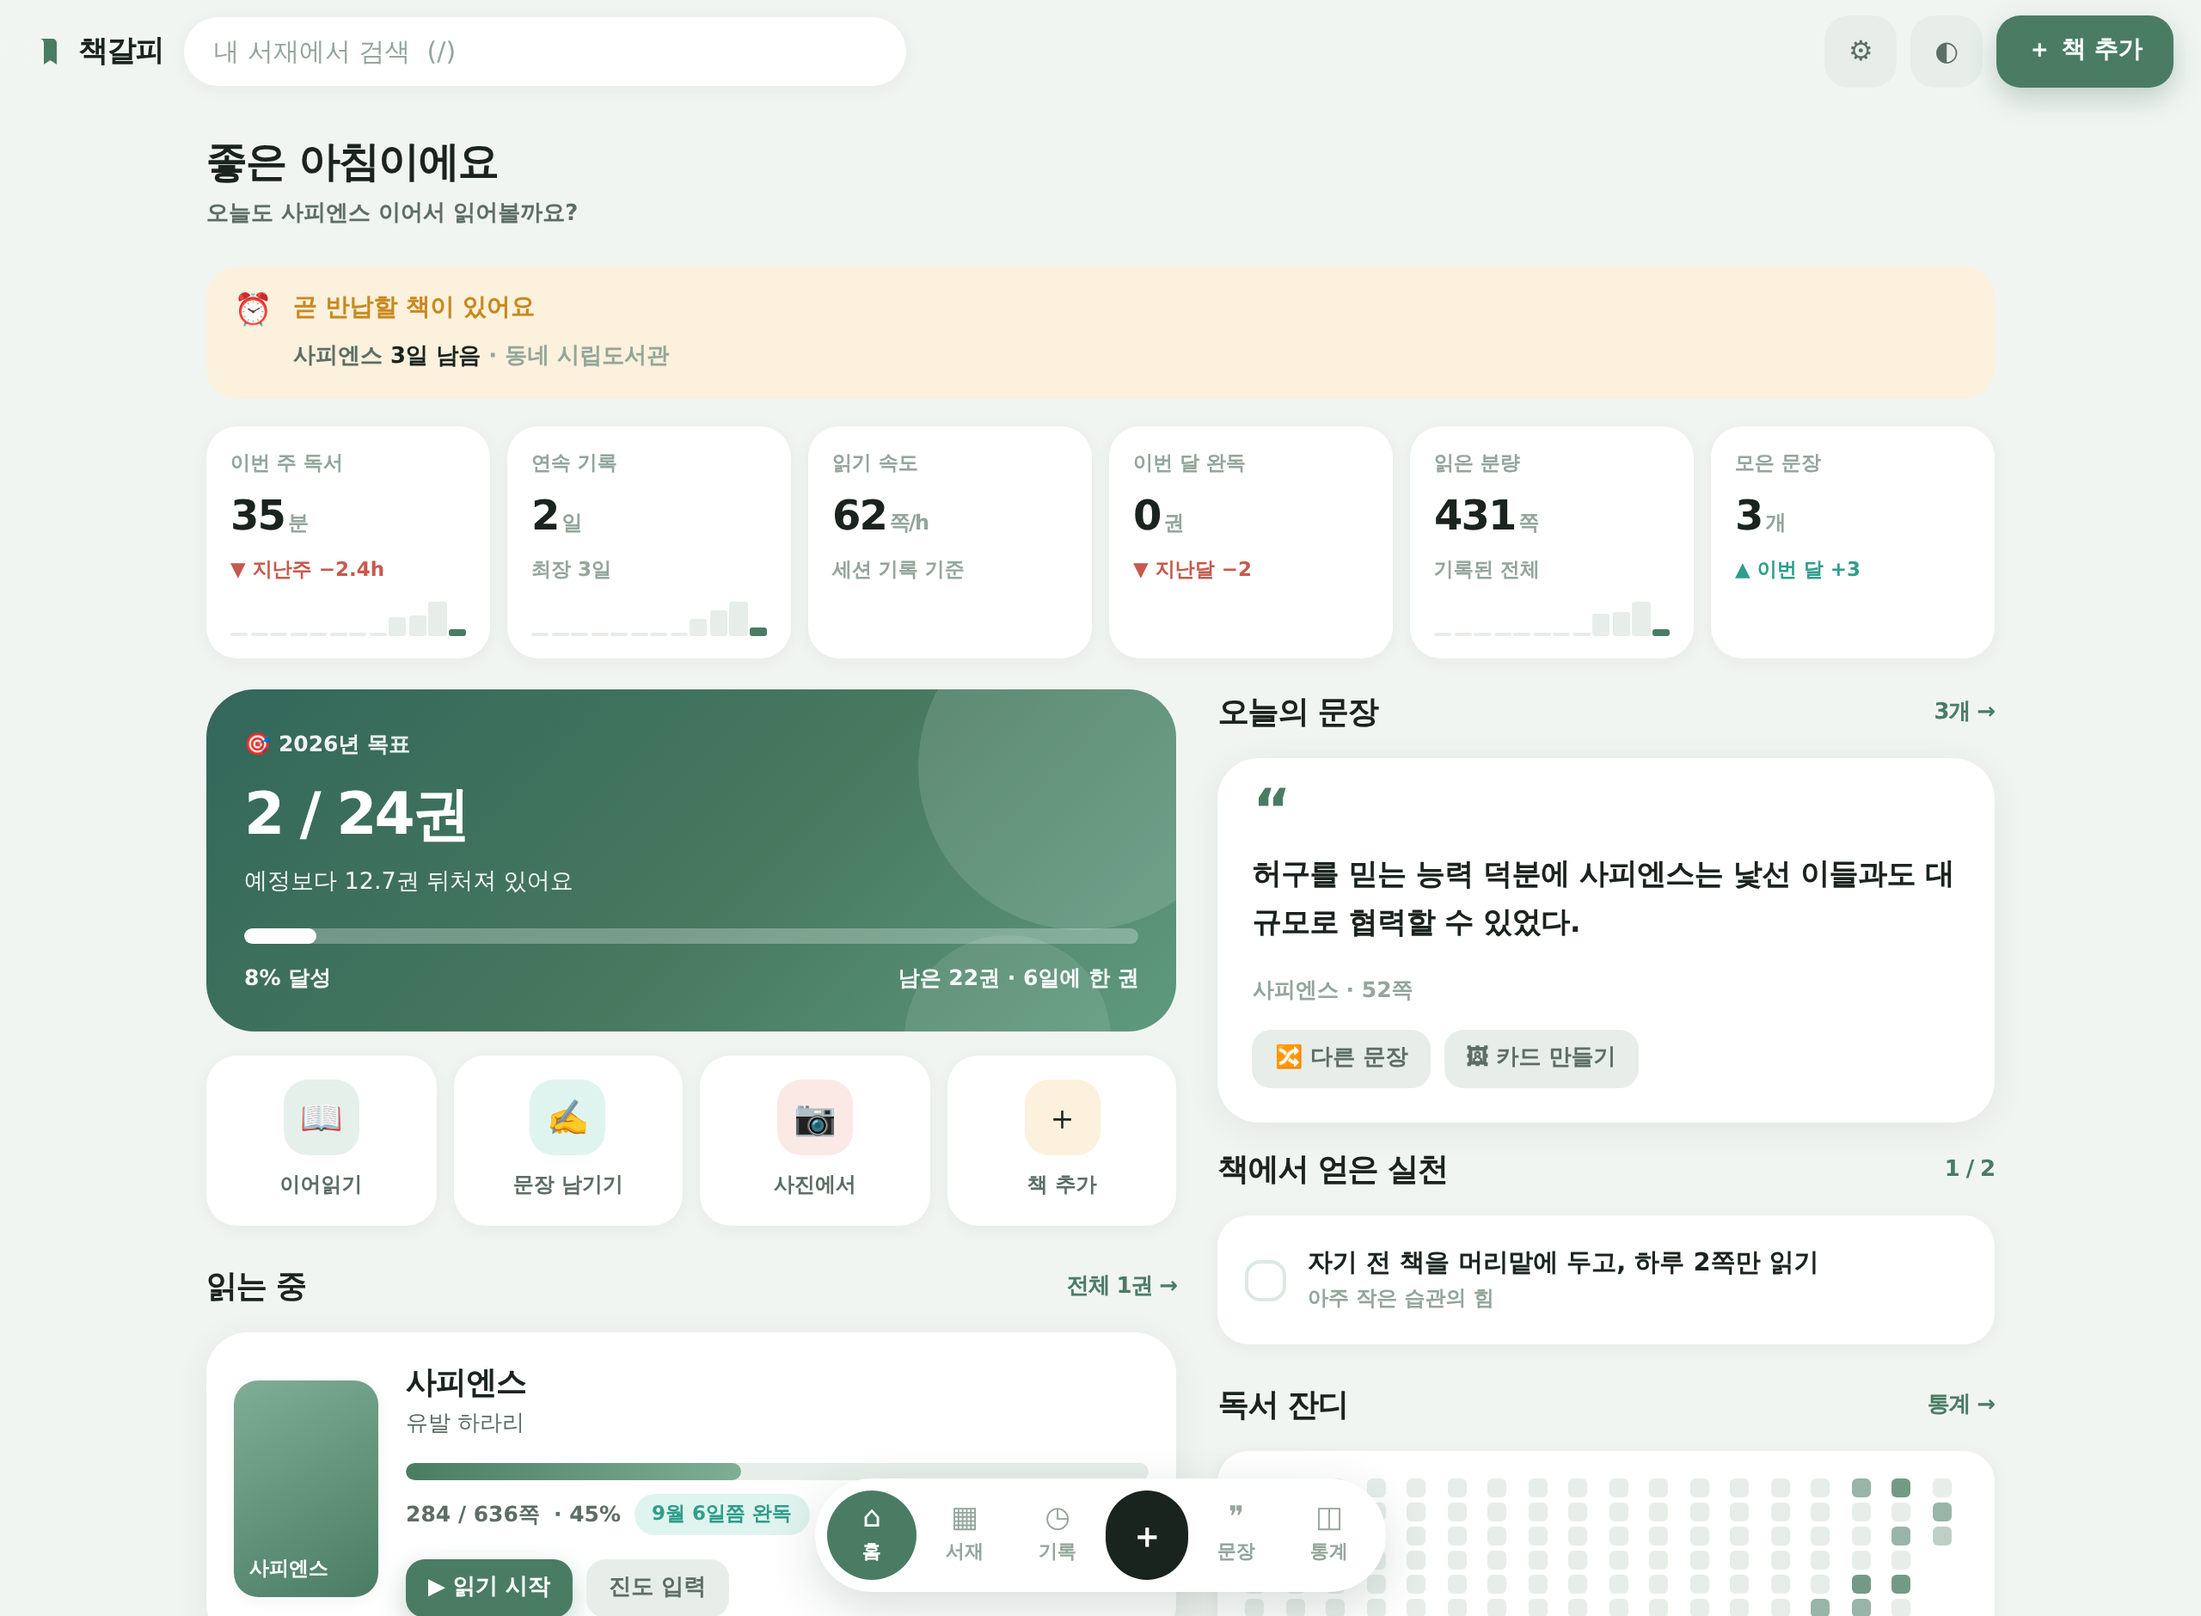
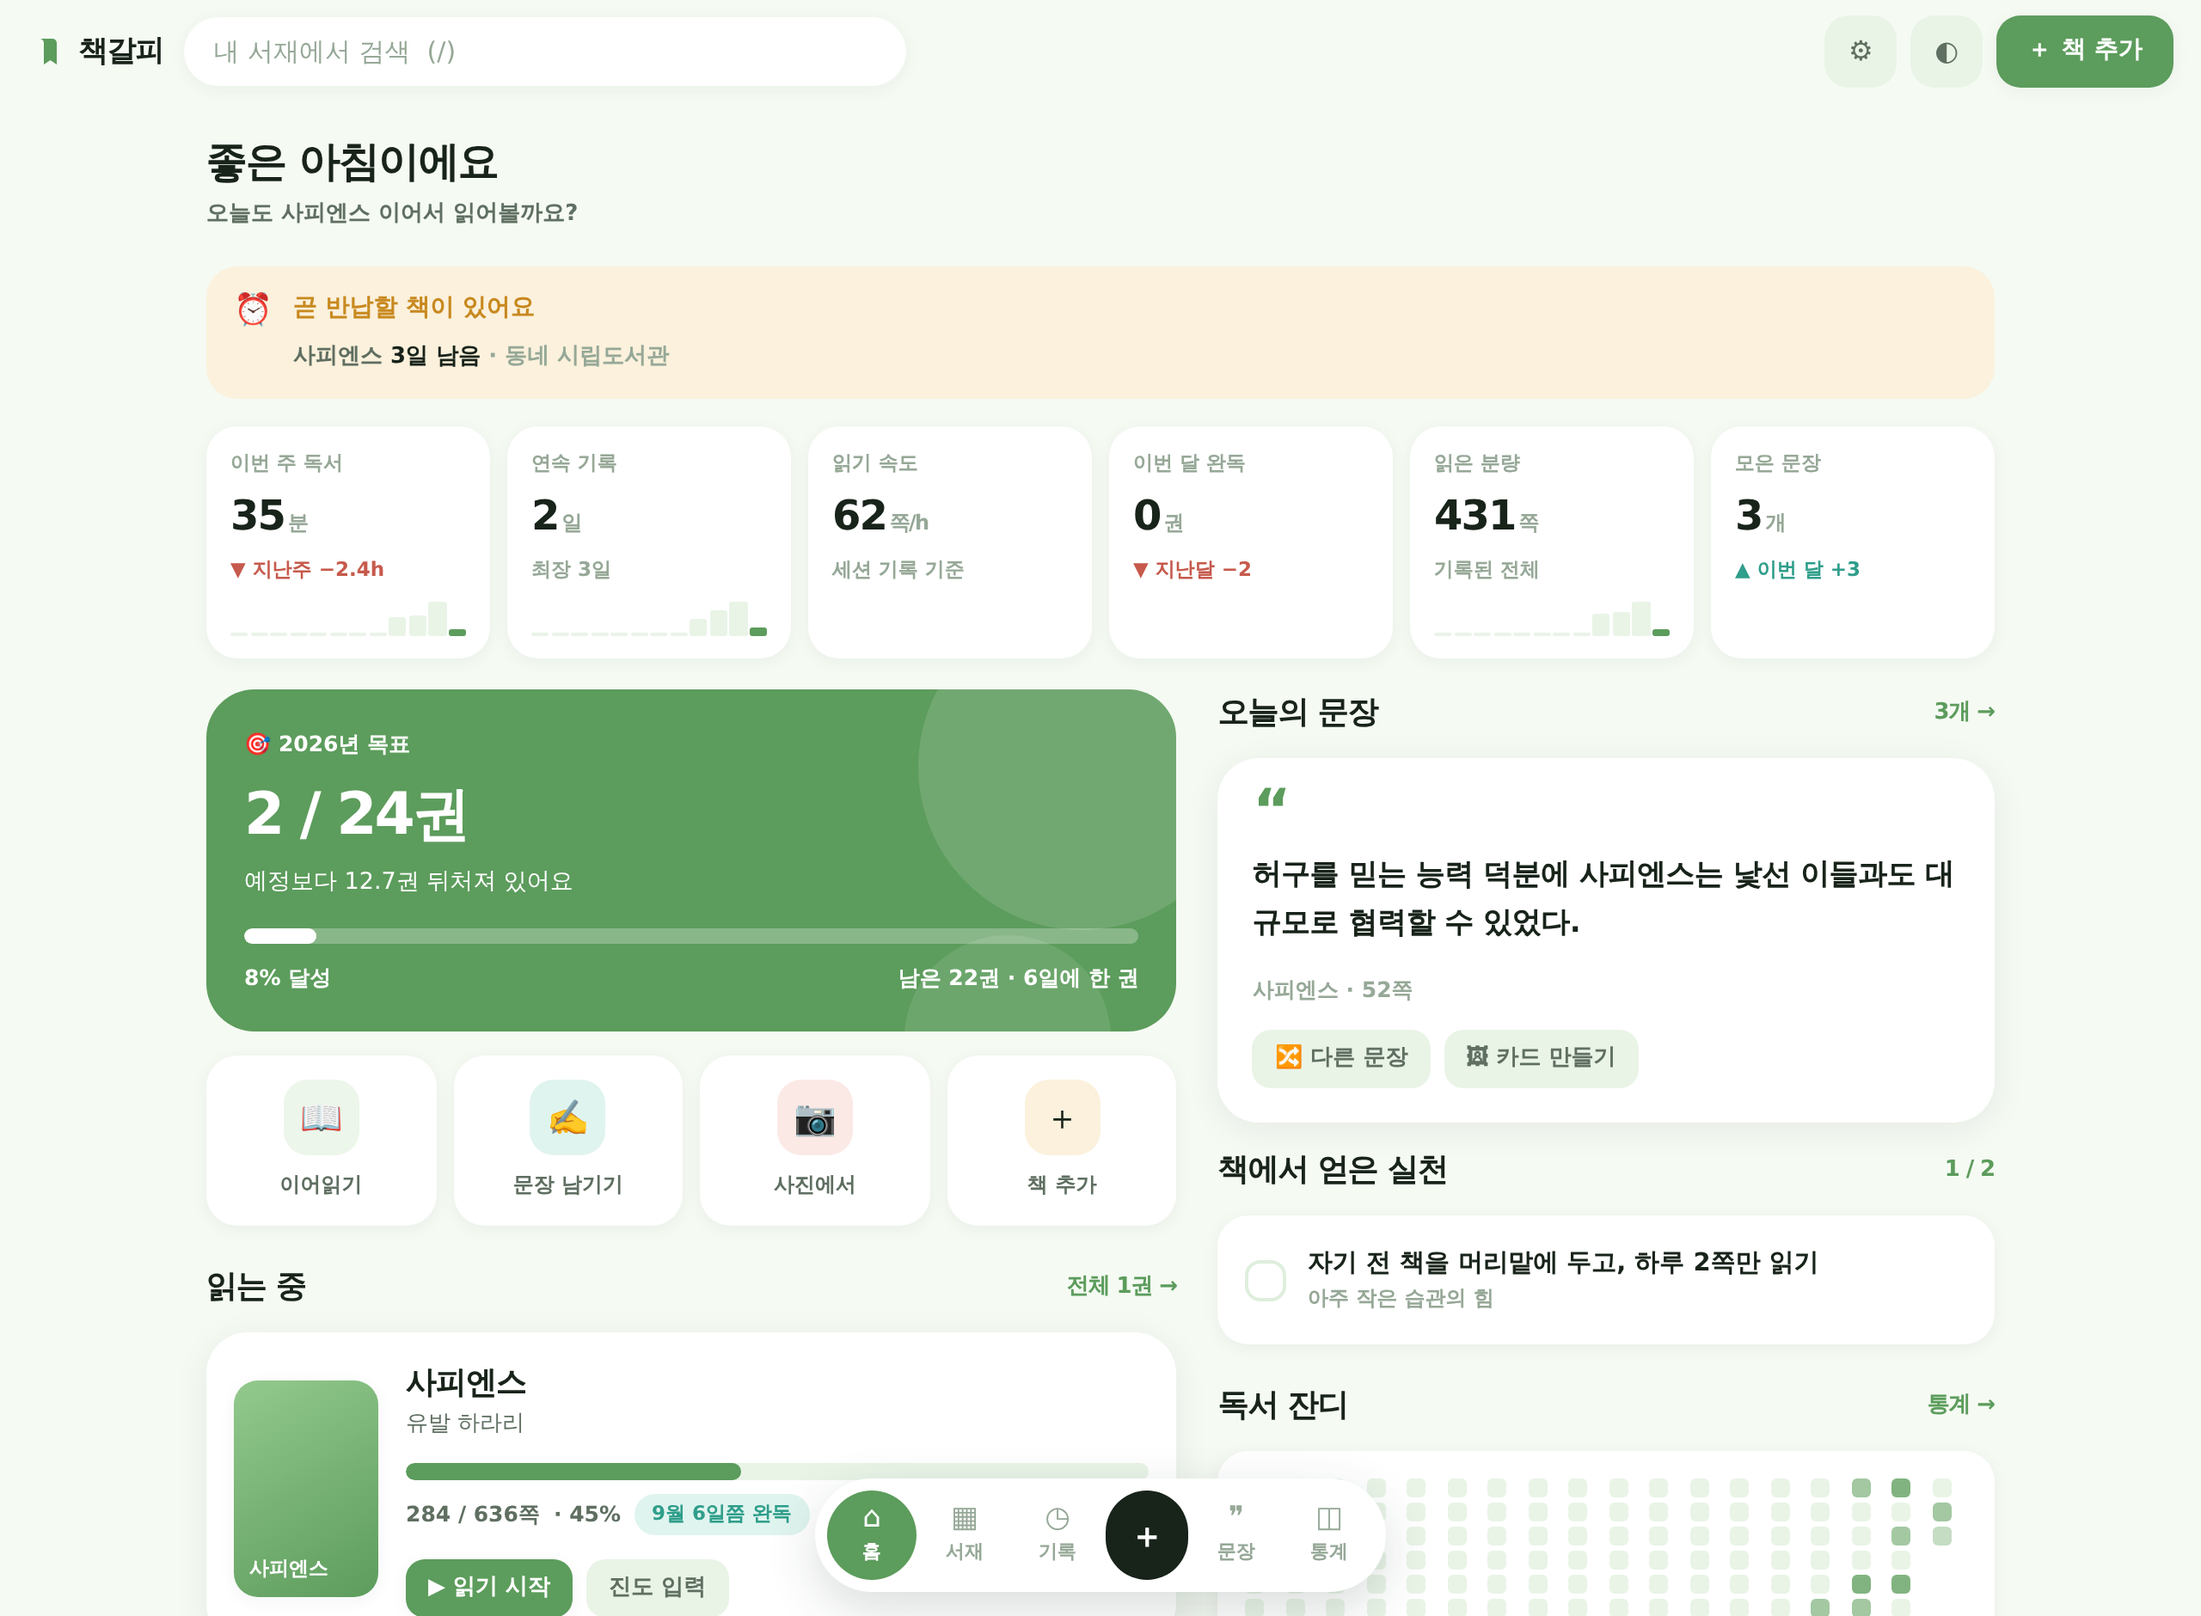
색을 피스타치오로, 앱 이름을 한 곳으로
밝은 연두(#5c9c5c)로 옮기고 면은 전부 단색 무광으로 칠했다.
그라데이션과 버튼 아래 번지던 그림자가 화면을 번들거리게 만들고 있었다.
목표 카드 위 작은 글씨의 투명도(.92~.95)도 걷어 최대한 또렷하게 뒀다.

이름은 여섯 파일에 흩어져 있어 바꾸려면 전부 찾아다녀야 했다.
js/brand.js 의 APP_NAME 하나로 모으고, 화면에 정적으로 박히는
index.html 과 manifest.webmanifest 만 남겼다. 이제 세 곳이면 된다.

- 표지 사진이 없는 책의 자리 표시는 책처럼 보이도록 그라데이션을 남겼다.
- 앱 아이콘·매니페스트·문서 사진을 새 색으로 맞췄다.
- 깨진 표지 시험이 고정 대기 600ms 에 기대고 있어 이따금 헛짚었다.
  이미지 error 이벤트를 기다리도록 고쳤다 (앱 문제는 아니었다).

93개 통과.

Claude-Session: https://claude.ai/code/session_01Cp53XNTgAP4TSJ9zpSBQ1h

diff --git a/css/styles.css b/css/styles.css
@@ -1,23 +1,23 @@
 /* ============================================================
-   책갈피 — 독서기록 앱
+   독서기록 앱
    디자인 방향: 밝고 둥근 큰 카드(모바일 앱) + 상단 지표 줄(대시보드)
    ============================================================ */
 
-/* 색: 도서관 램프갓 같은 세이지 그린.
-   채도를 낮춰 은은하게 두되, 글자를 얹는 --accent 는 흰 글씨가 읽힐 만큼은 어둡게 잡았다. */
+/* 색: 피스타치오 — 노랑이 살짝 섞인 밝은 연두.
+   면은 전부 단색 무광으로 칠한다. 그라데이션과 번지는 그림자가 화면을 번들거리게 만든다. */
 :root {
-  --bg:          #f1f5f2;
+  --bg:          #f5faf3;
   --bg-elev:     #ffffff;
-  --bg-sunk:     #e7eee9;
-  --line:        #dde8e1;
-  --line-soft:   #edf3ef;
-  --text:        #1a241f;
-  --text-dim:    #5d6e65;
-  --text-faint:  #94a69b;
+  --bg-sunk:     #e9f4e7;
+  --line:        #dfeedd;
+  --line-soft:   #eef6ec;
+  --text:        #18231a;
+  --text-dim:    #5f6f61;
+  --text-faint:  #96a897;
 
-  --accent:      #4a7c64;
-  --accent-2:    #7fae95;
-  --accent-soft: #e6f0ea;
+  --accent:      #5c9c5c;
+  --accent-2:    #93c98d;
+  --accent-soft: #ecf6ea;
   --accent-ink:  #ffffff;
 
   /* 완독(ok)은 accent 와 같은 초록 가족이라, 조금 더 청록 쪽으로 밀어 구분한다 */
@@ -49,19 +49,19 @@
 }
 
 html[data-theme="dark"] {
-  --bg:          #121815;
-  --bg-elev:     #1b231e;
-  --bg-sunk:     #253029;
-  --line:        #32403a;
-  --line-soft:   #253029;
-  --text:        #e8f0ea;
-  --text-dim:    #a2b3a8;
-  --text-faint:  #71857a;
+  --bg:          #141a13;
+  --bg-elev:     #1d241c;
+  --bg-sunk:     #283126;
+  --line:        #354034;
+  --line-soft:   #283126;
+  --text:        #e9f0e7;
+  --text-dim:    #a5b3a2;
+  --text-faint:  #74856f;
 
-  --accent:      #7fb499;
-  --accent-2:    #a6cfb7;
-  --accent-soft: #23342b;
-  --accent-ink:  #0f1712;
+  --accent:      #8cc687;
+  --accent-2:    #b0dcaa;
+  --accent-soft: #253526;
+  --accent-ink:  #10190f;
 
   --ok:          #4ecab1;
   --ok-soft:     #143330;
@@ -177,7 +177,7 @@ input[type="search"]::-webkit-search-cancel-button { -webkit-appearance: none; }
 .btn:active { transform: translateY(1px); }
 .btn--primary {
   background: var(--accent); color: var(--accent-ink);
-  box-shadow: 0 6px 16px color-mix(in srgb, var(--accent) 32%, transparent);
+  box-shadow: var(--shadow-sm);
 }
 .btn--soft { background: var(--bg-sunk); box-shadow: none; color: var(--text-dim); }
 .btn--ghost { background: transparent; box-shadow: none; color: var(--text-dim); }
@@ -251,7 +251,7 @@ input[type="search"]::-webkit-search-cancel-button { -webkit-appearance: none; }
 .progress { height: 10px; border-radius: 10px; background: var(--bg-sunk); overflow: hidden; position: relative; }
 .progress > i {
   display: block; height: 100%; border-radius: 10px;
-  background: linear-gradient(90deg, var(--accent), var(--accent-2)); transition: width .3s;
+  background: var(--accent); transition: width .3s;
 }
 .progress__pace { position: absolute; top: -3px; bottom: -3px; width: 2px; background: var(--text-faint); border-radius: 2px; }
 
@@ -310,15 +310,12 @@ input[type="search"]::-webkit-search-cancel-button { -webkit-appearance: none; }
 @media (min-width: 900px) { .grid2 { grid-template-columns: 1.25fr 1fr; gap: 24px; align-items: start; } }
 
 .hero {
-  /* 흰 글씨를 얹으므로 밝은 끝도 너무 밝게 두지 않는다 */
-  background: linear-gradient(135deg, #33675a, #47795f 55%, #5f9a7e);
+  background: var(--accent);
   border-radius: 28px; padding: 22px; color: #fff; margin-bottom: 14px;
   position: relative; overflow: hidden;
 }
-/* 밤에는 한 단 더 가라앉힌다 — 어두운 화면에서 이 카드만 뜨면 눈이 아프다 */
-html[data-theme="dark"] .hero {
-  background: linear-gradient(135deg, #1c4638, #275445 55%, #3a7160);
-}
+/* 밤에는 한 단 가라앉힌다 — 어두운 화면에서 이 카드만 뜨면 눈이 아프다 */
+html[data-theme="dark"] .hero { background: #3f7342; }
 .hero::after {
   content: ""; position: absolute; right: -40px; top: -50px; width: 190px; height: 190px;
   border-radius: 50%; background: rgba(255, 255, 255, .13);
@@ -328,12 +325,12 @@ html[data-theme="dark"] .hero {
   border-radius: 50%; background: rgba(255, 255, 255, .10);
 }
 .hero > * { position: relative; }
-.hero__lb { font-size: 12.5px; font-weight: 800; opacity: .92; }
+.hero__lb { font-size: 12.5px; font-weight: 800; }
 .hero__big { font-size: 34px; font-weight: 800; letter-spacing: -.045em; margin: 6px 0 2px; }
-.hero__sub { font-size: 13.5px; opacity: .93; }
+.hero__sub { font-size: 13.5px; }
 .hero__track { height: 9px; border-radius: 9px; background: rgba(255, 255, 255, .28); margin-top: 16px; overflow: hidden; }
 .hero__track i { display: block; height: 100%; background: #fff; border-radius: 9px; }
-.hero__foot { display: flex; margin-top: 10px; font-size: 12.5px; font-weight: 700; opacity: .95; }
+.hero__foot { display: flex; margin-top: 10px; font-size: 12.5px; font-weight: 700; }
 .hero__btn {
   margin-top: 16px; background: rgba(255, 255, 255, .2); color: #fff;
   border: 0; border-radius: 12px; padding: 10px 16px; font-weight: 800; cursor: pointer; font-size: 13.5px;
@@ -512,7 +509,7 @@ html[data-theme="dark"] .hero {
 .bar-col { flex: 1 1 0; min-width: 0; display: flex; flex-direction: column; align-items: center; gap: 5px; }
 .bar-col__v { font-size: 11px; font-weight: 800; color: var(--text-dim); height: 14px; line-height: 14px; font-variant-numeric: tabular-nums; }
 .bar-col__track { width: 100%; display: flex; align-items: flex-end; background: var(--bg-sunk); border-radius: 8px; overflow: hidden; }
-.bar-col__track > i { display: block; width: 100%; background: linear-gradient(180deg, var(--accent-2), var(--accent)); border-radius: 8px; transition: height .3s; }
+.bar-col__track > i { display: block; width: 100%; background: var(--accent); border-radius: 8px; transition: height .3s; }
 .bar-col__l { font-size: 11px; color: var(--text-faint); font-weight: 700; white-space: nowrap; }
 @media (max-width: 520px) { .barchart { gap: 3px; } .bar-col__v, .bar-col__l { font-size: 9.5px; } }
 

diff --git a/js/views/settings.js b/js/views/settings.js
@@ -9,6 +9,7 @@ import { fmtBytes } from '../image.js';
 import { applyTheme } from '../theme.js';
 import { seedDemo } from '../demo.js';
 import { go } from '../router.js';
+import { APP_NAME } from '../brand.js';
 
 export default function settingsView() {
   const st = store.settings();
@@ -120,7 +121,7 @@ export default function settingsView() {
         </div>
       </section>
 
-      <p class="tiny faint" style="text-align:center;margin-top:30px">책갈피 · 오프라인에서도 동작하는 개인 독서기록</p>
+      <p class="tiny faint" style="text-align:center;margin-top:30px">${APP_NAME} · 오프라인에서도 동작하는 개인 독서기록</p>
     </div>`);
 
   /* ---- 기기 간 동기화 ---- */
@@ -379,7 +380,7 @@ export default function settingsView() {
     try {
       const data = await store.exportData({ includePhotos: true });
       const blob = new Blob([JSON.stringify(data)], { type: 'application/json' });
-      downloadBlob(blob, `책갈피_백업_${ymd()}.json`);
+      downloadBlob(blob, `${APP_NAME}_백업_${ymd()}.json`);
       toast(`백업을 내려받았어요 (${fmtBytes(blob.size)})`);
     } catch (err) {
       toast(`백업에 실패했어요: ${err.message}`);
@@ -424,7 +425,7 @@ export default function settingsView() {
       b.oneLine, (b.tags || []).join(' / '),
     ].map(cell).join(','));
     const csv = '' + [head.map(cell).join(','), ...rows].join('\r\n');
-    downloadBlob(new Blob([csv], { type: 'text/csv;charset=utf-8' }), `책갈피_서재_${ymd()}.csv`);
+    downloadBlob(new Blob([csv], { type: 'text/csv;charset=utf-8' }), `${APP_NAME}_서재_${ymd()}.csv`);
     toast('CSV를 내려받았어요.');
   };
 

diff --git a/js/quotecard.js b/js/quotecard.js
@@ -1,6 +1,7 @@
 // 인용 카드 이미지 생성 — 문장을 이미지로 저장해 공유
 
 import { el, esc, downloadBlob } from './util.js';
+import { APP_NAME } from './brand.js';
 import { modal, toast } from './ui.js';
 
 const THEMES = [
@@ -110,7 +111,7 @@ export function draw(canvas, { text, title, authors, page, themeId, ratioId }) {
   ctx.fillStyle = theme.sub + '99';
   ctx.font = `600 ${Math.round(W * 0.021)}px ${FONT_SANS}`;
   ctx.textAlign = 'right';
-  ctx.fillText('책갈피', W - inner, baseY + Math.round(W * 0.045));
+  ctx.fillText(APP_NAME, W - inner, baseY + Math.round(W * 0.045));
   ctx.textAlign = 'left';
 }
 

diff --git a/js/sync.js b/js/sync.js
@@ -7,12 +7,13 @@
 // 우리가 쓰는 기능이 네 가지뿐이라 라이브러리를 들일 이유가 없다.
 
 import * as store from './store.js';
+import { APP_NAME } from './brand.js';
 
 const BUCKET = 'photos';
 const PAGE = 500;
 
 /** Supabase 프로젝트에서 한 번만 실행하면 되는 준비용 SQL */
-export const SETUP_SQL = `-- 책갈피 동기화 준비 (한 번만 실행하면 됩니다)
+export const SETUP_SQL = `-- ${APP_NAME} 동기화 준비 (한 번만 실행하면 됩니다)
 
 create table if not exists public.records (
   user_id    uuid        not null references auth.users on delete cascade,

diff --git a/index.html b/index.html
@@ -4,7 +4,7 @@
 <meta charset="utf-8" />
 <meta name="viewport" content="width=device-width, initial-scale=1, viewport-fit=cover" />
 <meta name="description" content="책갈피 — 읽는 시간을 기록하는 나만의 독서 서재" />
-<meta name="theme-color" content="#f1f5f2" />
+<meta name="theme-color" content="#f5faf3" />
 <title>책갈피 · 독서기록</title>
 <link rel="manifest" href="./manifest.webmanifest" />
 <link rel="icon" href="./assets/icon.svg" type="image/svg+xml" />

diff --git a/js/charts.js b/js/charts.js
@@ -45,7 +45,7 @@ export function rankList(rows, { valueFmt = (v) => v, max: maxN = 6 } = {}) {
     </div>`).join('');
 }
 
-const DONUT_COLORS = ['#4a7c64', '#dfa63c', '#c96f5a', '#5b8fb9', '#3fa3a3', '#9c7fb8', '#8a9a7b', '#d08bb0'];
+const DONUT_COLORS = ['#5c9c5c', '#dfa63c', '#c96f5a', '#5b8fb9', '#3fa3a3', '#9c7fb8', '#8a9a7b', '#d08bb0'];
 
 /** 도넛 차트 + 범례 */
 export function donutChart(data, { size = 150 } = {}) {

diff --git a/js/theme.js b/js/theme.js
@@ -7,7 +7,7 @@ function paint() {
   const dark = mode === 'dark' || (mode === 'auto' && media.matches);
   document.documentElement.dataset.theme = dark ? 'dark' : 'light';
   const meta = document.querySelector('meta[name="theme-color"]');
-  if (meta) meta.setAttribute('content', dark ? '#121815' : '#f1f5f2');
+  if (meta) meta.setAttribute('content', dark ? '#141a13' : '#f5faf3');
 }
 
 export function applyTheme(next) {

diff --git a/js/brand.js b/js/brand.js
@@ -1,0 +1,7 @@
+// 앱 이름 — 한 곳에 모아 둔다.
+//
+// 이름을 바꾸려면 아래 APP_NAME 과, 화면에 정적으로 박혀 있는 두 파일만 고치면 된다.
+//   1) js/brand.js        (이 파일)
+//   2) index.html         제목 · 설명 · 상단 왼쪽 로고 글씨
+//   3) manifest.webmanifest   휴대폰 홈 화면에 설치했을 때 보이는 이름
+export const APP_NAME = '책갈피';

diff --git a/sw.js b/sw.js
@@ -1,6 +1,6 @@
 // 서비스 워커 — 앱 셸 캐시로 오프라인 지원
 
-const CACHE = 'chaekgalpi-v2';
+const CACHE = 'chaekgalpi-v3';
 
 const SHELL = [
   './',
@@ -23,6 +23,7 @@ const SHELL = [
   './js/dialogs.js',
   './js/demo.js',
   './js/sync.js',
+  './js/brand.js',
   './js/image.js',
   './js/photonote.js',
   './js/ocr.js',
